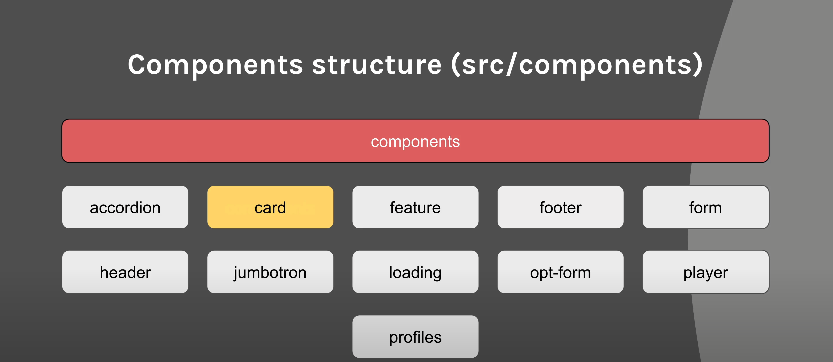
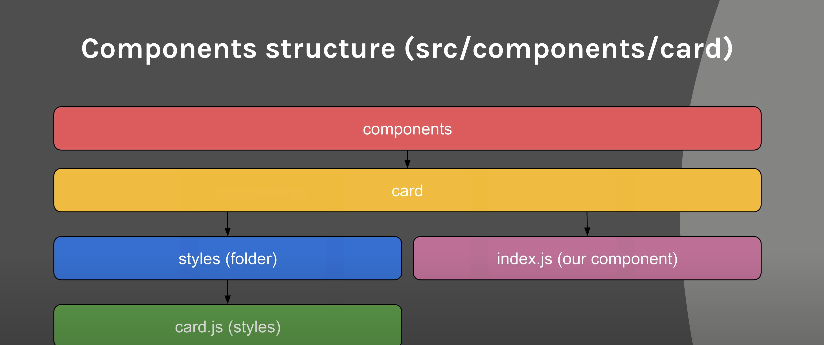
ReadMe updated

diff --git a/README.md b/README.md
@@ -11,9 +11,60 @@ git push -u origin master --verbose
       3- yarn add fuse.js
       4- yarn add normalize.css
       5- yarn add react-router-dom
+  
+      For more infor. look inside of the package.json file
 
       lsof  -i :3000 kill:5000
 
-======== Screenshot======
+      ======== Application architecture ======
 
 ![](images/application-structures.png)
+
+
+     ======== Component architecture ======
+
+![](images/components-structures.png)
+
+    ======== Folder architecture ======
+
+![](images/folder-structures.png)
+
+
+    ======== Banner ======
+
+![](images/banner.png)
+
+    ======== Accordion ======
+
+![](images/accordion.png)
+
+
+    ======== Sign In ======
+
+![](images/signin.png)
+
+
+
+    ======== Sign up ======
+
+![](images/signup.png)
+
+
+    ======== Home Pages ======
+
+![](images/home.png)
+
+
+    ======== Welcome ======
+
+![](images/welcome.png)
+
+    ======== Card ======
+
+![](images/card.png)
+
+
+
+    ======== Foter ======
+
+![](images/footer.png)
